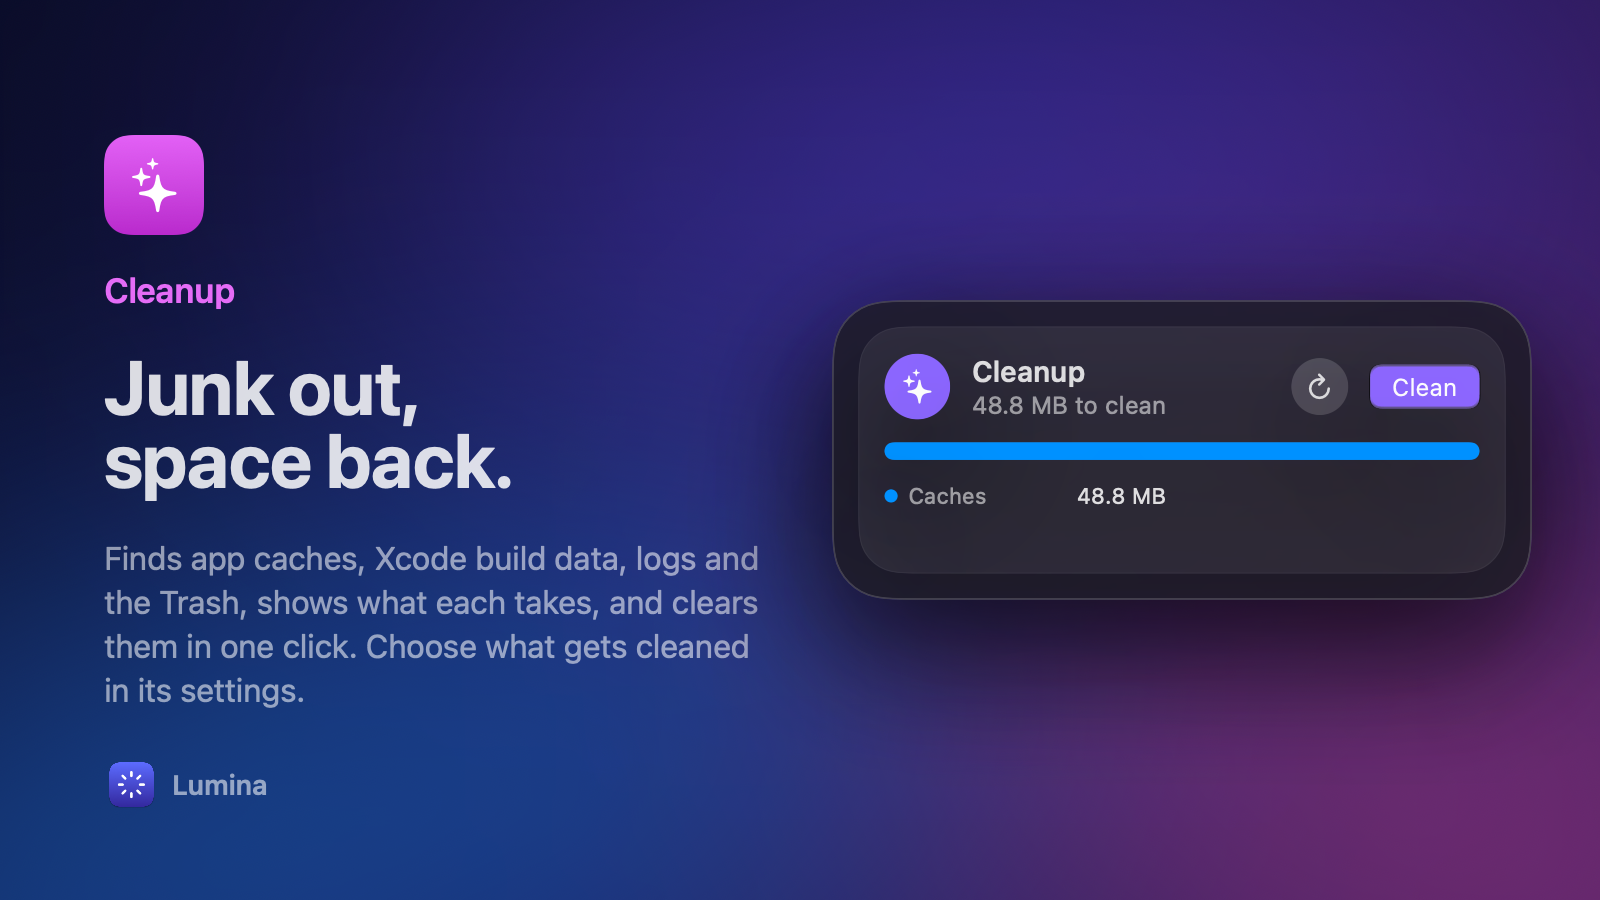
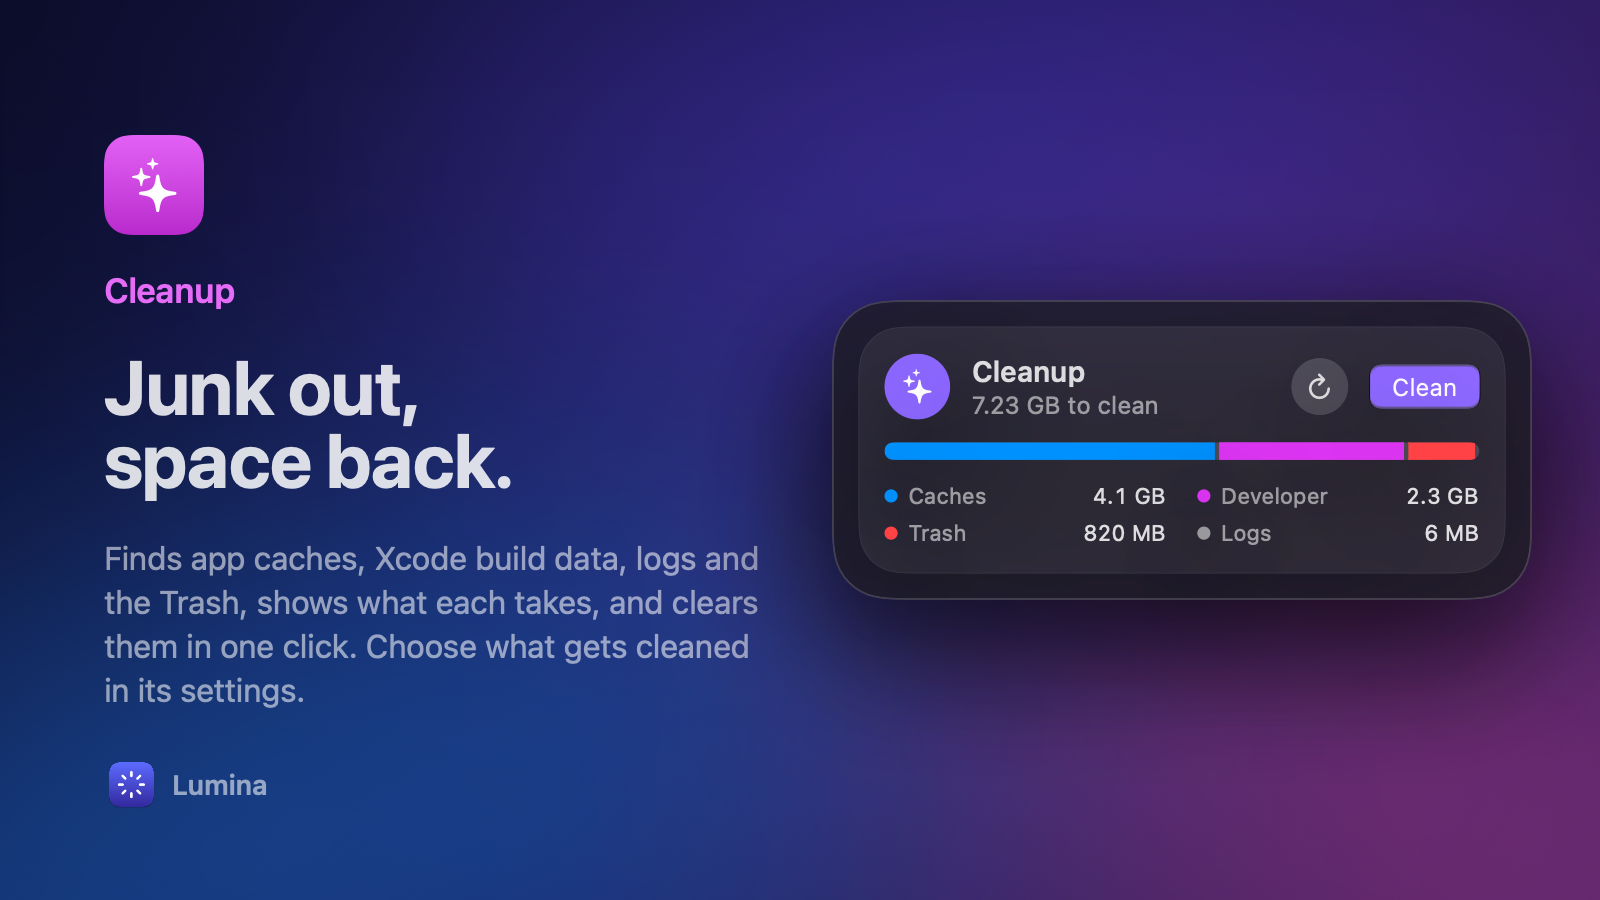
Show sample results on the Cleanup marketing card
The card showed this Mac's real scan, which right after a clean is only
a few megabytes. The marketing renderer now builds with MARKETING
defined, which adds CleanupController.showSampleResults, and uses fixed
results, like the battery widgets' sample devices.

diff --git a/scripts/marketing/main.swift b/scripts/marketing/main.swift
@@ -931,14 +931,19 @@ MainActor.assumeIsolated {
     CaffeineController.shared.toggle()
     StayGreenController.shared.toggle()
     SystemMonitor.shared.attach()
-    // Only looks: the tile shows what this Mac has to clean.
-    CleanupController.shared.scan()
     _ = AppearanceController.shared
 }
 // Let the monitors fill most of the CPU graph's one-minute history.
 RunLoop.main.run(until: Date().addingTimeInterval(45))
 
 MainActor.assumeIsolated {
+    // Fixed results, like the battery widgets' sample devices: a real scan
+    // depends on when this Mac was last cleaned.
+    CleanupController.shared.showSampleResults(
+        [.caches: 4_100_000_000, .developer: 2_300_000_000, .trash: 820_000_000, .logs: 6_000_000],
+        availableCapacity: 221_200_000_000
+    )
+
     let featuresDirectory = marketing.appendingPathComponent("features")
     try? FileManager.default.removeItem(at: featuresDirectory)
     try! FileManager.default.createDirectory(at: featuresDirectory, withIntermediateDirectories: true)

diff --git a/Sources/Lumina/Utilities/Cleanup/CleanupController.swift b/Sources/Lumina/Utilities/Cleanup/CleanupController.swift
@@ -226,6 +226,22 @@ final class CleanupController {
         NSWorkspace.shared.open(url)
     }
 
+    #if MARKETING
+    /// Shows fixed results instead of this Mac's, for the images
+    /// scripts/render-marketing.sh makes (it builds with MARKETING defined).
+    func showSampleResults(_ sample: [CleanupCategory: Int64], availableCapacity: Int64) {
+        task?.cancel()
+        findings = sample.mapValues { bytes in
+            CleanupFinding(items: [CleanupItem(url: URL(fileURLWithPath: "/sample"), bytes: bytes)])
+        }
+        enabledCategories = Set(sample.keys)
+        hasFullDiskAccess = true
+        self.availableCapacity = availableCapacity
+        lastScan = .now
+        phase = .ready
+    }
+    #endif
+
     private func refreshCapacity() {
         let values = try? URL(fileURLWithPath: "/").resourceValues(forKeys: [.volumeAvailableCapacityForImportantUsageKey])
         availableCapacity = values?.volumeAvailableCapacityForImportantUsage

diff --git a/README.md b/README.md
@@ -172,7 +172,7 @@ scripts/render-marketing.sh
 
 The script compiles Lumina's sources, minus its `@main`, together with `scripts/marketing/main.swift` into a small renderer. It also rewrites the gallery between the `features` markers in this README. That file holds the scenes, layouts and copy; `Feature.all` lists each feature's card. Features come from the app, `Utility.catalog` and the Library's **Add New** items, so a new utility gets a card (and a pill in the hero) on the next run. Until it has an entry in `Feature.all`, its card is plain and the script prints a warning.
 
-While it runs it turns on Caffeine and Stay Green and samples the system monitor for about 45 seconds, so the CPU graph has history. System readings and clock times are live; battery devices are fixed sample devices. The light hero sets only the renderer's own appearance, never the system's.
+While it runs it turns on Caffeine and Stay Green and samples the system monitor for about 45 seconds, so the CPU graph has history. System readings and clock times are live; battery devices and Cleanup's results are fixed samples (the renderer builds with `MARKETING` defined for that). The light hero sets only the renderer's own appearance, never the system's.
 
 ## Adding a utility
 
